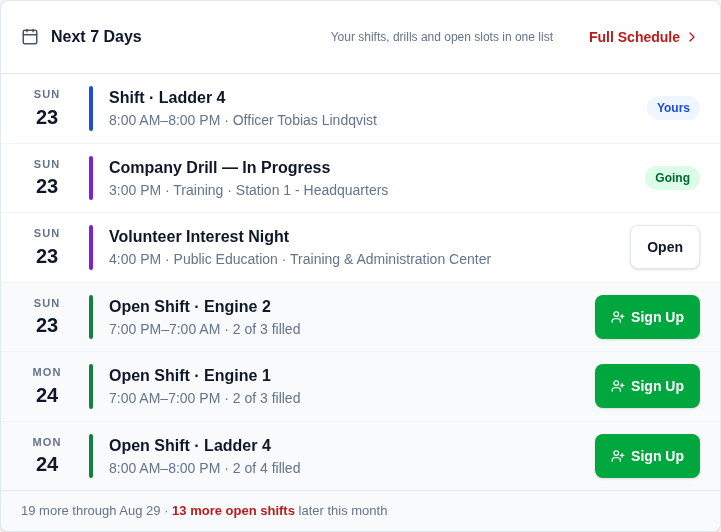
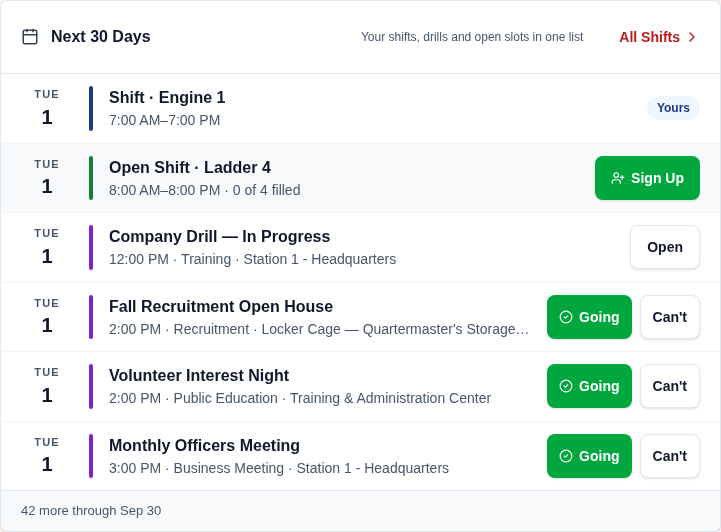
Re-capture the dashboard timeline shots at thirty days
Both shots now show the Next 30 Days heading and the All Shifts control,
matching the prose they sit beside. 03-60 also shows the footer's "42 more
through Sep 30" — a figure the seven-day card could not have produced, and
one the pre-filter limit:5 truncation would have hidden.

The manifest fix in the previous commit was the precondition, not a
tidy-up. Both entries locate the panel by its heading text, so until it
was corrected the shots timed out at 20s rather than capturing anything.

Recorded in SCREENSHOT_CURRENCY.md, including what the next person needs:
the blocker was the seeder's own rate-limit pacing, not the environment.
It spaces calls ~119s apart to stay under the admin password-reset ceiling,
so a 22-member roster sleeps through most of a session. The documented way
out works — RATE_LIMIT_ENABLED=false on the backend and
SEED_ADMIN_RESET_WINDOW_SECONDS=0 on the seeder.

Two shots matching the same id prefixes stayed unshot and are logged as
such: 03-60-report-used-sheet and 03-62-flagged-queue both need a crewed
past shift, which the seeder cannot produce while no platoon has members.
Neither is caused by this change.

Claude-Session: https://claude.ai/code/session_01PTihBzntt21vvSqYeDDRBw

diff --git a/docs/training/SCREENSHOT_CURRENCY.md b/docs/training/SCREENSHOT_CURRENCY.md
@@ -1,28 +1,45 @@
 # Screenshot currency
 
-## The dashboard timeline went from seven days to thirty (2026-09-01)
+## Captured 2026-09-01 — the dashboard timeline at thirty days, and the manifest that pointed at the old heading
 
-`03-60-dashboard-my-shifts.png` now contradicts the section it illustrates.
-The card's heading is **Next 30 Days**, its control reads **All Shifts** and
-opens `/scheduling?view=month`, and the footer ends "in the following month".
-The image still shows "Next 7 Days", "Full Schedule" and "later this month" —
-so a member following the guide looks for a control that no longer exists, and
-the prose and the picture teach two different screens.
+Two shots re-taken against the running application:
+`03-60-dashboard-my-shifts.png` and `03-62-dashboard-signup-positions.png`.
+Both now show the **Next 30 Days** heading and the **All Shifts** control; the
+first also shows the footer's "42 more through Sep 30", which the seven-day
+card could not have produced.
 
-Recorded rather than re-shot: the capture tool needs a bootstrapped and seeded
-demo stack with both servers up, which is not available in the session that
-made the change. The prose and alt text in `03-scheduling.md` were updated
-with the change; only the PNG is outstanding.
+**The manifest had to be fixed before either could be shot.** Both entries
+locate the panel by its heading text — `section.card:has(h3:has-text('Next 7
+Days'))` — in a `prepare` locator and again in a `selector`, four live
+references that the rename left pointing at nothing. A stale selector here does
+not capture the wrong element, it times out at 20s, so the re-capture this
+entry was opened for could not have run until the manifest was corrected. The
+`alt` mattered too: `apply_placeholders.py` writes each guide's alt from the
+manifest, so leaving it stale would have quietly reverted `03-scheduling.md` to
+"Next 7 Days" on the next run.
 
-### Replace
+**Budget an hour, and turn the limiter off.** The blocker was not the
+environment — database, cache, both servers and a pre-installed Chromium were
+all reachable — it was `Throttle`. `seed_demo_data.py` paces itself at ~119s a
+batch to stay under the admin password-reset ceiling, because tripping it costs
+a 15-minute lockout per account, and a 22-member roster then sleeps through
+most of a session. The seeder documents the way out and it works: start the
+backend with `RATE_LIMIT_ENABLED=false` and run the seeder with
+`SEED_ADMIN_RESET_WINDOW_SECONDS=0`.
+
+Also worth knowing for the next run: read progress from row counts, not the
+seeder's log. Python block-buffers to a redirected file, so the log sat at
+"count-only calls" long after the run had moved on.
+
+### Still not shot
 
 | Image area | Why |
 | --- | --- |
-| **Dashboard** "Next 7 Days" timeline (`03-60-dashboard-my-shifts.png`) | Heading is now Next 30 Days; the control is All Shifts, not Full Schedule; footer reads "in the following month" |
+| `03-60-report-used-sheet` | Blocked upstream: "no crewed past shift to file against" — the seeder's platoon-roster and scheduling-request steps report no platoon has members |
+| `03-62-flagged-queue` | Same run, `locator.click` timeout — the queue it pictures has nothing in it for the same reason |
 
-Any other capture showing the dashboard's personal tab carries the same
-heading and control, so check the shot before trusting it — this is the only
-one referenced from a guide by that name.
+Neither is caused by the timeline change; both matched the `--only 03-60,03-62`
+prefix filter by coincidence of id.
 
 ## Eight unreferenced images, triaged rather than swept (2026-08-31)
 
